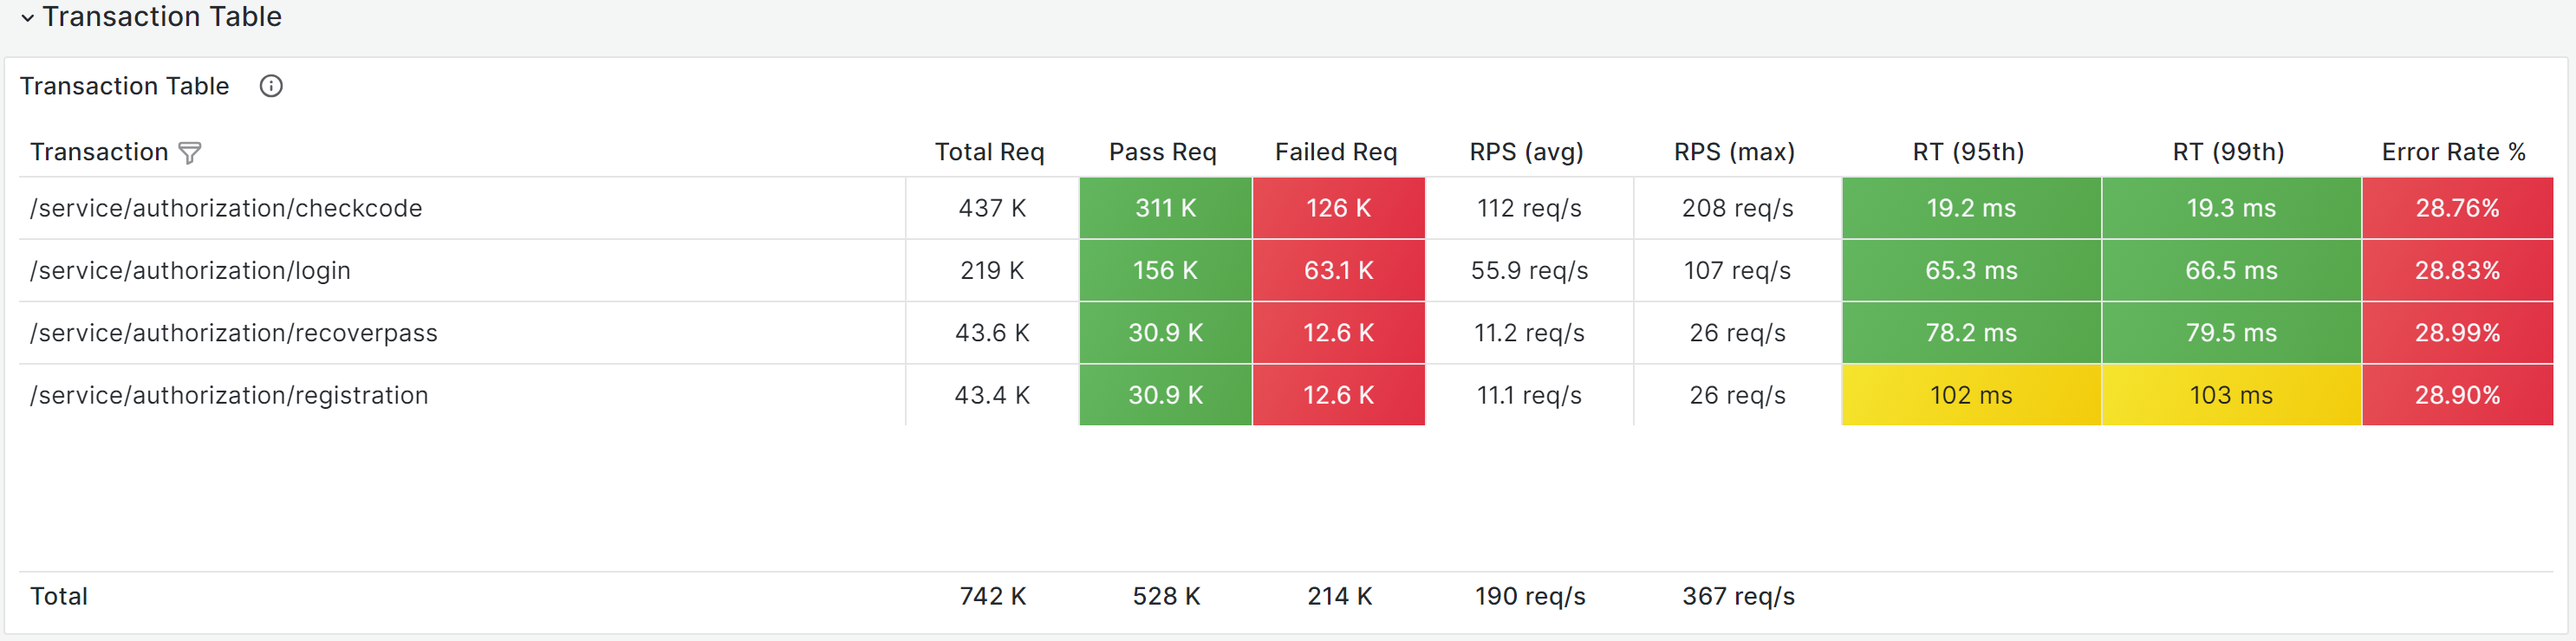
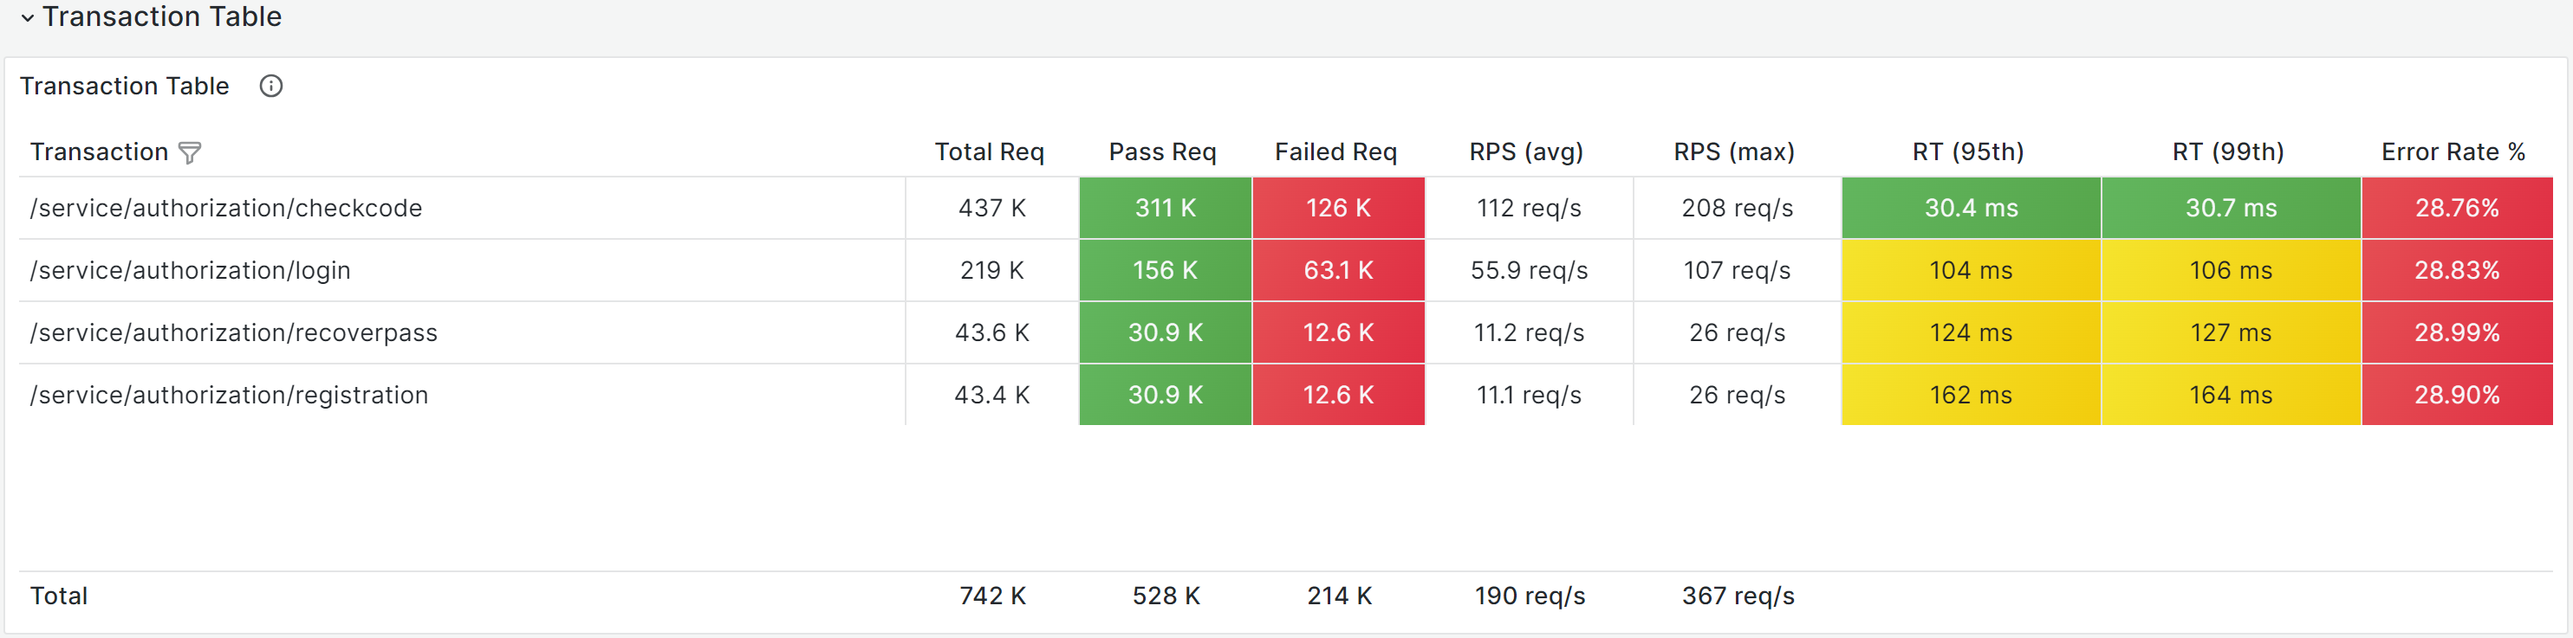
Изменения: - исправил ошибку в таблице Transaction Table - поменял картинку для Transaction Table - в readme добавил ссылку на Grafana Labs

diff --git a/README.md b/README.md
@@ -5,6 +5,8 @@
 [Backend listener](https://jmeter.apache.org/usermanual/component_reference.html#Backend_Listener)
 в InfluxDB (Query Language: InfluxQL).
 
+Дашборд загружен в [Grafana Labs](https://grafana.com/grafana/dashboards/21818-jmeter-dashboard-influxdb/).
+
 ---
 # Оглавление
 * [С чего начать?](#begin)
@@ -30,7 +32,7 @@
    * **Backend Listener implementation = InfluxdbBackendListenerClient** - класс реализации BackendListenerClient
    * **application = ${__TestPlanName}** - название jmx-файла
    * **testTitle = ${__P(testTitle)}** - название теста (либо другая ~~полезная~~ информация)
-   * **eventTags = ${__time()}** - уникальный RunID запуска
+   * **eventTags = ${__time()}** - уникальный RunID
    * **influxdbToken = {influxdbToken}** -
     influxdb [API Token](https://docs.influxdata.com/influxdb/cloud/admin/tokens/create-token/)
 
@@ -109,7 +111,7 @@
 ---
 ### Correlation <a id="correlation"></a>
 Аннотация _Сorrelation_ позволяет поставить маркер на панели. Данный маркер будет отображаться на всех панелях.  
-**Обязательное условие** - при создании аннотации необходимо указать tags --> **lt**.
+**Обязательное условие** - при создании аннотации необходимо указать tags = lt.
 
 ![Correlation - гифка](https://raw.githubusercontent.com/promokk/jmeter-dashboard-influxdb/main/data/Correlation.gif)
 
@@ -125,4 +127,24 @@
 ~~~shell
 nohup /opt/jmeter/bin/jmeter -n -t scriptExample.jmx -X -R server01,server02 -DtestTitle=example > /dev/null 2>&1&
 ~~~
+
+Dashboard for Jmeter using Backend listener and InfluxDB.  
+Detailed information on [GitHub](https://github.com/promokk/jmeter-dashboard-influxdb).
+
+**The dashboard contains:**
+* _Run Test_ - status of running / completed tests
+* _Summary_ - basic information for analysis
+* _RPS / Response Times_ - successful and unsuccessful requests, response times
+* _Error_ - error information
+* _Transaction Table_ - request / transaction statistics
+* _Network Traffic_ - bytes received / bytes sent
+
+**Before running the test for the first time, you need to change the Backend Listener:**
+* Backend Listener implementation = InfluxdbBackendListenerClient
+* application = ${__TestPlanName} --> name jmx-file
+* testTitle = ${__P(testTitle)} --> test title (property is passed at startup)
+* eventTags = ${__time()} --> unique RunID
+* influxdbToken = {influxdbToken} --> influxdb API Token
+
+
 
